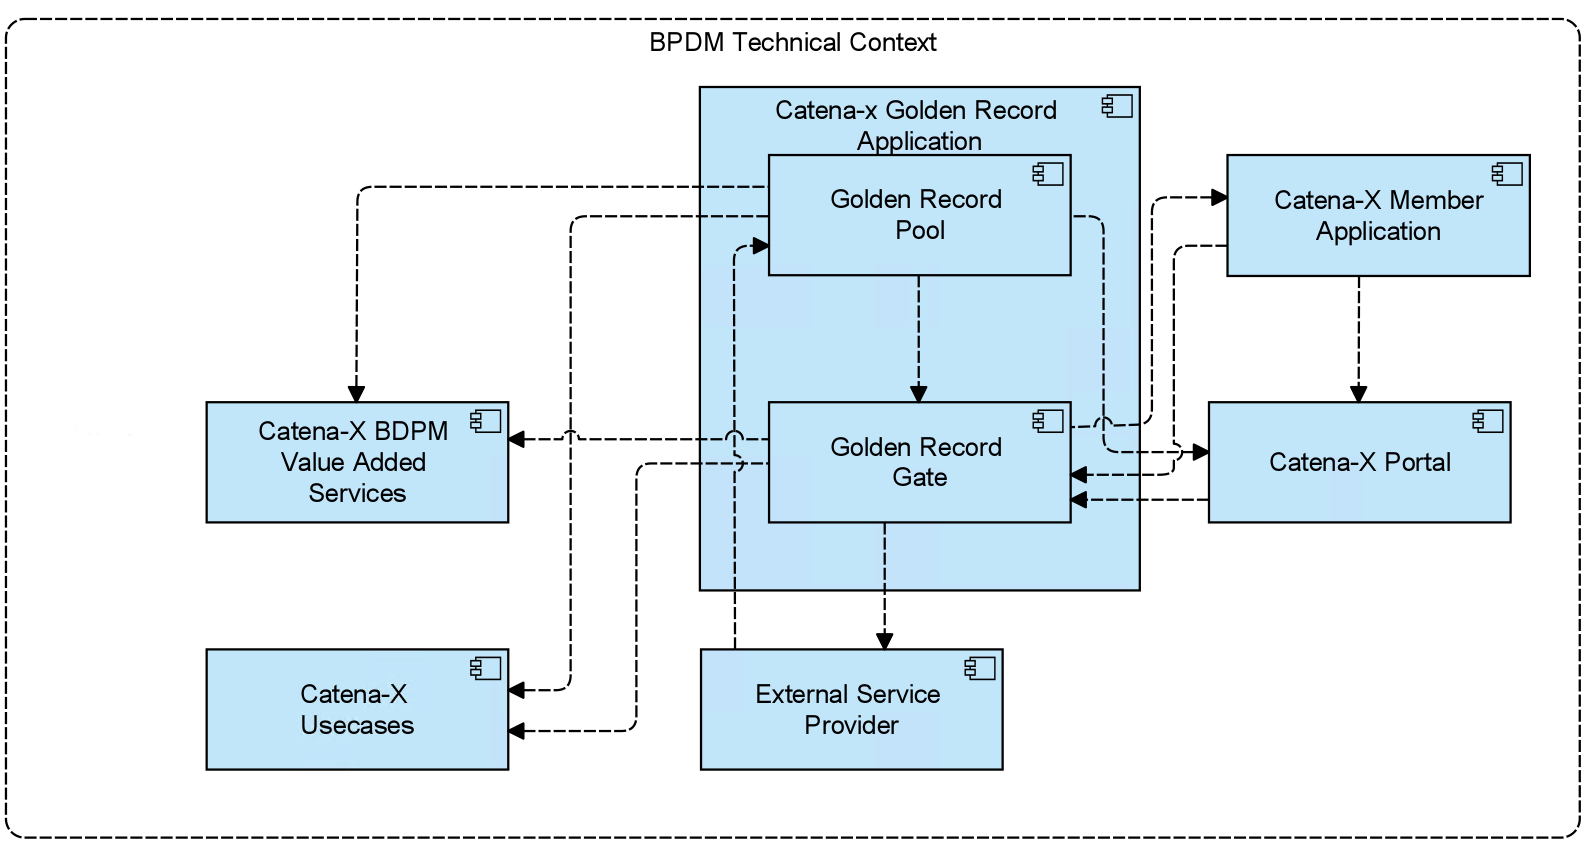
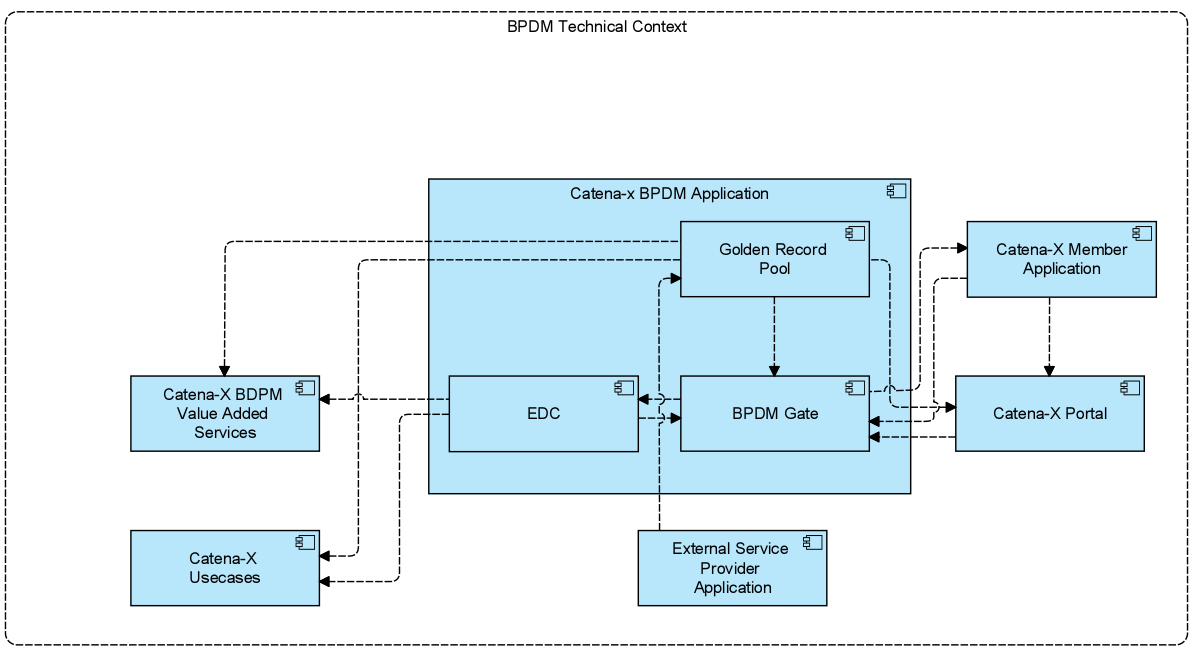
feat(arc42-rel3_1): add edc for gate to technical context

diff --git a/docs/arc42/arc42-bpdm-rel_3_1.md b/docs/arc42/arc42-bpdm-rel_3_1.md
@@ -1,0 +1,284 @@
+# BPDM Golden Record Application
+
+- [BPDM Golden Record Application](#bpdm-golden-record-application)
+- [Introduction and Goals](#introduction-and-goals)
+  - [Requirements Overview](#requirements-overview)
+  - [Quality Goals {#\_quality\_goals}](#quality-goals-_quality_goals)
+  - [Stakeholders](#stakeholders)
+- [Architecture Constraints](#architecture-constraints)
+- [System Scope and Context](#system-scope-and-context)
+  - [Business Context](#business-context)
+    - [Clients/Consumer of the API](#clientsconsumer-of-the-api)
+    - [API Consumption](#api-consumption)
+  - [Technical Context](#technical-context)
+  - [Deployment Context](#deployment-context)
+- [Solution Strategy](#solution-strategy)
+- [Building Block View](#building-block-view)
+  - [Whitebox Overall System](#whitebox-overall-system)
+    - [Class Diagram Pool](#class-diagram-pool)
+  - [Blackbox (API Authentication)](#blackbox-api-authentication)
+- [Runtime View](#runtime-view)
+- [Deployment View](#deployment-view)
+  - [BPDM Gate Deployment](#bpdm-gate-deployment)
+  - [Golden Record Pool Deployment](#golden-record-pool-deployment)
+- [Cross-cutting Concepts](#cross-cutting-concepts)
+  - [Business Partner Domain Model](#business-partner-domain-model)
+  - [What is the Business Partner Number (BPN)?](#what-is-the-business-partner-number-bpn)
+- [Architecture Decisions](#architecture-decisions)
+- [Quality Requirements](#quality-requirements)
+- [Risks and Technical Debts](#risks-and-technical-debts)
+- [Glossary](#glossary)
+
+# Introduction and Goals
+
+Every participant in the Catena-X (CX) network shall have a unique Business Partner Number (BPN) according to the concept defined by the Catena-X BPN concept. The task of the BPN Generator is to issue such a BPN for a presented Business Partner data object. In that, the BPN Generator serves as the central issuing authority for BPNs within Catena-X. Technically, it constitutes a service that is available as a singleton within the network.
+
+The CX datapool aims at collecting the business partner data objects from the service provider and giving the opportunity for other use cases and services to consume the data via an interface. The CX datapool is the central instance for business partner data within Catena-X.
+
+In general, we have implemented most of the adapter based on the Interface to a SaaS (Software as a Service) Provider, who currently has the responsibility to clean up the data.
+
+## Requirements Overview
+
+Essentially constituting a service-oriented architecture running distributedly on distinct CX Nodes, there can - in principle - be multiple consumers submitting business partner data objects for identification. To fulfill this purpose, the following requirements shall apply:
+
+| Req-Id  | Requirements                                                                                             |
+| ------- | -------------------------------------------------------------------------------------------------------- |
+| BPDM-R1 | The BPN Generator shall fit into the BPDM Architectural Framework.                                       |
+| BPDM-R2 | The BPN Generator shall support the modes of operation as described in BPN Generator: Modes of Operation |
+| BPDM-R3 | Regarding implementation technologies the BPN Generator shall follow the overall guidelines for Catena-X |
+| BPDM-R4 | The datapool should follow the business partner data model BPDM Data Model Business Partner              |
+| BPDM-R5 | The data should be available via API                                                                     |
+
+## Quality Goals {#\_quality\_goals}
+
+| Priority | Quality Goal            | Scenario                                                                                                                                                                                                                                                                                                                                                                                              |
+| -------- | ----------------------- | ----------------------------------------------------------------------------------------------------------------------------------------------------------------------------------------------------------------------------------------------------------------------------------------------------------------------------------------------------------------------------------------------------- |
+| 1        | Security                | All users and services which access the Golden Record Application must be authenticated and authorised. Only the Golden Record Application itself is allowed to perform changes on data. Consuming services/users are only allowed to read data. In addition they are only allowed to read the specific data that belongs with this, the Data Souvereignty principles of Catena-X has to be fulfilled |
+| 1        | Integrity               | Only the Golden Record Application is allowed to perform changes on the data. In addition, all changes must be traceable and must be able to be rolled back                                                                                                                                                                                                                                           |
+| 1        | Legally                 | No natural persons are allowed to get uploaded and stored. For all other uploaded data (Business Partners) it is mandatory that Users (Sharing Members) can only see their own uploaded data and that it is not possible to draw conclusions about other business partner relationships                                                                                                               |
+| 1        | Integrity & Correctness | It must be ensured that the data of the golden record which is created during the process is correct.                                                                                                                                                                                                                                                                                                 |
+| 2        | Reliability             | The Golden Record Application is a central foundation in the Catena-X Network. It provides all participants and services, business partner data and the unique Business Partner Number (BPN) as identifier. Therefore the BPDM Services must be always/highly available                                                                                                                               |
+| 2        | Functional Stability    | Since the Golden Record Application is a central foundation in the Catena-X Network the defined standards of the API and datamodel for the associated Release Version must be fulfilled                                                                                                                                                                                                               |
+| 1        | Sensitivity of data     | the uploaded business partner data is highly sensitive, that's why it must be ensured that no unauthorized user/system can access data which does not belong to it. More over it must be guaranteed that no one can see the business partners related to the specific Catena-X Member.  |
+
+![](images/iso_25010.png)
+
+## Stakeholders
+| Role/Name           | Expectations                                                                                                | Example |
+| ------------------- | ----------------------------------------------------------------------------------------------------------- | ------- |
+| Company (CX-Member) | Company wants to have cleaned and enriched business partner data objects with a BPN.                        |         |
+| CX Apps             | Other apps and their use cases want to use the business partner data objects and the BPN for their processes | The CX Portal will use the BPN for on-boarding new companies into the network. Traceability Apps will use BPN to describe business partners |
+
+
+# Architecture Constraints
+
+| Constraint ID | Description                                                                                         |
+| ------------ | --------------------------------------------------------------------------------------------------- |
+| C-1          | Developed under an open-source license and all used frameworks and libraries suites to this license |
+| C-2          | Must be compliant and fulfill the Catena-X Guidelines                                                                |
+| C-3          | Eclipse Dataspace Connector must be used for data transfer between different legal entites |
+
+# System Scope and Context 
+
+The Golden Record Gate and Golden Record Pool is the transhipment point for the incoming data from the service provider and for the outgoing data to the consumers. Consumers are mostly other apps that participate in the Catena-X network.
+
+## Business Context
+
+![](images/business-context.png)
+
+**Catena-X Member**
+* A company that's participating in the Catena-X Network and consuming digital services or data assets.
+
+**Catena-X Portal/Marketplace**
+* The Portal which provides an entry point for the Catena-X Members, to discover Apps that are offered in Catena-X.
+
+**Catena-X App Provider**
+* App Provider that provide data or service offers based on Catena-X Network data. The Apps are provided via the Catena-X Marketplace.
+
+**Catena-X Opeartion Environment for Golden Record**
+* Within Catena-X there will be only one central operation environment that operates the Golden Record Application. This operation environment provides the services and data for other operation environment or applications which needs to consume business partner data or golden record data.
+
+**Catena-X Golden Record Application**
+* The BPDM Golden Record Application which offers services to Catena-X Members, Catena-X Use Cases and Catena-X BPDM Value Added Services for consuming and processing business partner data as well as Golden Record Information and BPN Numbers.
+
+**Catena-X Use Cases**
+* Use Cases withing Catena-X. For example regarding Sustainability, Traceability, Quality Management and so on.
+
+**Catena-X BPDM Value Added Services**
+* There are several value added services that can be offered in context of business partner data. For example a Fraud Prevention Dashboard/API, Country Risk Scoring and so on.
+
+**External Service Provider**
+* To offer the BPDM and Golden Record Services, Catena-X uses services from external third party service providers.
+### Clients/Consumer of the API
+
+In order to inform you in a timely manner whenever breaking changes to our BPDM API are plannend, please fill in the table below. Especially the column "Contact Person" is relevant as these persons will be informed before the PI Planning in order to evaluate and plan the changes to their product. This site is just to support the collaboration.
+
+### API Consumption
+| #   | Use-Case             | BPDM API | Requirements to API and Data | Persistence Requirements         | Contact Person | Comment |
+| --- | -------------------- | -------- | ---------------------------- | -------------------------------- | -------------- | ------- |
+| 1   | Quality-Mgmt         |          |                              |                                  |                |         |
+| 2   | DCM                  | x        | BPN-L-S-A                    | Live Data                        |                |         |
+| 3   | Portal               | x        | BPN-L                        |                                  |                |         |
+| 4   | EDC                  |          |                              |                                  |                |         |
+| 5   | Traceability         |          |                              |                                  |                |         |
+| 6   | Sustainability - Co2 | x        | BPN-L-S-A                    | via Message Broker and Live Data |                |         |
+| 7   | Circular Economy     | x        |                              |                                  |                |         |
+| 8   | Marketplace          | ?        |                              |                                  |                |         |
+| 9   | OSIM                 | x        |                              |                                  |                |         |
+| 10  | ESS                  | x        | BPN-L-S-A -> Search by addresses independent to L-S-A |                                  |                |         |
+
+(X = Will be used / is used by)
+## Technical Context
+
+![](images/technical-context.png)
+
+**Catena-X Golden Record Application**
+* The BPDM Golden Record Application which offers services to Catena-X Members, Catena-X Use Cases and Catena-X BPDM Value Added Services for consuming and processing business partner data as well as Golden Record Information and BPN Numbers.
+
+**Golden Record Gate**
+* The Golden Record Gate provides the interfaces for Catena-X Members to manage their business partner data within Catena-X. It forwards the uploaded business partners to a third party service provider to create a Golden Record Proposal.
+* Currently the Gate only provides an API to interact with the data pools of the third party service providers. In the future, an own persistence layer will be introduced within the Gate, handling state and business logic.
+
+**Golden Record Pool**
+* The Golden Record Pool provides the interface and persistance for accessing Golden Record Data and the unique Business Partner Number.
+
+**Catena-X Use Cases, Value Added Services, Member Applications**
+* All of these Applications uses the Interface provided by Golden Record Pool to consume Golden Record Information.
+
+
+## Deployment Context
+![](images/deployment-context.png)
+
+**Catena-X Operation Environment for Golden Record**
+
+* The Golden Record Application will be a single central component. Therefore it will only be deployed in the environment of this operation company. This company can of course also operate or offer other Catena-X Services.
+
+**External Service Provider**
+
+* To create a golden record proposal, Catena-X uses external third party services. These services are operated and own by the external service provider.
+
+**Catena-X Operations Enviornment xyz**
+
+* In contrast to the central golden record component, other BPDM Value Added services are decentral and can be operated in any operation environment.
+
+# Solution Strategy
+
+Use a microservice approach to separate the different components of the system and design a generic part as well as a specific data provider and data consumer part.
+
+* Kotlin
+* Spring Boot
+* Maven
+* PostgreSQL Database
+* REST
+* OpenSearch
+* Keycloak
+* Helm
+* Kubernetes
+
+
+# Building Block View
+
+![](images/BPDM_BUILDING_BLOCK_VIEW.png)
+
+## Whitebox Overall System
+
+| Name          | Responsibility                                                                                                                                 |
+| ------------- | ---------------------------------------------------------------------------------------------------------------------------------------------- |
+| API           | In this block the communication with other services (e.g. CX Portal) takes place.The API offers different end points, functions and data offer |
+| SaaS Adapter  | In this block the received data objects from an external data source will be converted to the CX data model.                                   |
+| BPN Generator | In this block for each data object a Business Partner Number will be created and assigned to the data object.                                  |
+| Elastic Search Component    | In this block the Elastic Search Component needs to interact with the Elastic Search Service to provide the search function via API. |
+
+### Class Diagram Pool
+![](images/class-diagram-pool.png)
+
+## Blackbox (API Authentication)
+
+For authentication the API uses a Bearer authentication (also called token authentication) is an HTTP authentication scheme that involves security tokens called bearer tokens.
+
+The client must send this token in the Authorization header when making requests to protected resources:
+
+Authorization: Bearer <token>
+
+Keycloak
+
+OAuth2
+
+# Runtime View
+
+![](images/RUNTIME_VIEW.png)
+
+# Deployment View
+
+How to run the service: ![](../../README.adoc)
+
+## BPDM Gate Deployment
+![](images/BDPM_GATE_DEPLOYMENT.png)
+
+## Golden Record Pool Deployment
+![](images/GR_POOL_DEPLOYMENT_1.png)
+![](images/GR_POOL_DEPLOYMENT_2.png)
+
+
+# Cross-cutting Concepts
+
+## Business Partner Domain Model
+![](images/business-partner-data-model.png)
+
+## What is the Business Partner Number (BPN)?
+A BPN is a unique identifier for a Business Partner, standardized for the Catena-X environment with overall 16 digits.
+
+BPN ID syntax / structure:
+
+| Prefix                                          | Classification                        | Identifier   | Check Digit                                     | Representation of a BPN |
+| ----------------------------------------------- | ------------------------------------- | ------------ | ----------------------------------------------- | ----------------------- |
+| 3 digits                                        | 1 digit                               | 10 digits    | 2 digits                                        | BPNL1234567890ZZ        |
+| Issuing Agency Code based on IS/IEC 15458 “BPN” | L = Legal entity S = Site A = Address | Alphanumeric | Checking algorithm based on ISO7064 MOD 1271-36 | BPN is used as a placeholder for the Issuing Agency according to ISO/IEC 15459. L identifies the legal entity of the Business Partner. ZZ is the individual check digit, which is formed according to ISO 7064. Note, for the human-readable representation of the BPN, the following input or reading aid is recommended: BPNL 1234 5678 90ZZ The use of a barcode or QR code can be assigned for machine-readable representation. |  
+
+
+# Architecture Decisions
+[Architecture Decision Logs](https://confluence.catena-x.net/display/CORE/BPDM+%7C+Decision+Logs)
+(Link will be replaced with ADRs based on Markdown)
+
+# Quality Requirements
+
+* see: [Quality Goals](#quality-goals-_quality_goals)
+
+# Risks and Technical Debts
+
+**Open EDC Questions**
+* What capabilites will be provided in the future?
+* How to deal with APIs provided behind an EDC? Swagger documentation cannot be seen by the requesting service?
+* How can we authorize and authenticate a User/System with individual permissions after it passes the EDC?
+* ...
+
+**Lack on Developer Resources**
+* To less developer resources in contrast to the expectations that the BPDM Product and its Golden Record will be a foundation component within Catena-X.
+
+**Semantic Model and SSI Integration of the Golden Record**
+* Not done yet.
+
+**Dependency on third party service provider**
+* Currently we are not flexible enough to easiliy change the third party service provider for golden record creation. Therefore the next step will be to introduce an own data persistence layer, getting more independent.
+
+**Data Storage concept**
+* How to seperate Data and ensure data sovereignty?
+
+**Accessability for SMEs**
+* Uploading via CSV File. Does it requires an EDC?
+
+# Glossary
+
+The Glossary is currently under development and will be added below after intenal approval ([DRAFT](https://confluence.catena-x.net/display/CORE/BPDM+Glossary+-+Internal+-+DRAFT))
+
+
+| Term                  | Definition                                                                                                                                                                                                                                                                                                                                                                                                                                                                                                                                                                                                                              |
+| --------------------- | --------------------------------------------------------------------------------------------------------------------------------------------------------------------------------------------------------------------------------------------------------------------------------------------------------------------------------------------------------------------------------------------------------------------------------------------------------------------------------------------------------------------------------------------------------------------------------------------------------------------------------------- |
+| Golden Record         | Golden Record defines a BPDM data record which passed successfully a set of predefined quality rules. These rules curated the data record into a harmonized, standardized and semantic unified data structure which is defined by Catena-X. The Golden Record status is a prereq for each BPDM data record to receive a valid BPN                                                                                                                                                                                                                                                                                                       |
+| Business Partner (BP) | In general, a BP is every entity (e.g. customer, supplier, employee, service provider) which does buiness with a respective company. In light of Catena-X, natural persons are excluded and focus is set on companies acting as a unique partner and being a member or supporter of the automotive supply chain.                                                                                                                                                                                                                                                                                                                        |
+| Legal Entity          | A legal entity is a juridical person or group which has legal rights and duties related to contracts, agreements, obligations etc. The term applies to any kind of organization which was founded under the particular set of law governing the country. |
+| Site                  | A site is a delimited geographical area where a legal entity does business (geographical address with geo coordinates). Providing a primary physical address for a site is mandatory. It is possible to specify further physical addresses for this location. P.O. box details are only possible in addition to the physical address. A site has a 1:n relation to addresses, means at least 1 address is necessary and multiple addresses are possible.                                                                                                                                                                                |
+| Additional address    | An additional address is a collection of information used to give the location of a building, apartment, or other structure or a plot of land, generally using political boundaries and street names as references, along with other identifiers such as organization name or plant. Addresses may contain also special codes, such as a postal code or geocodes, to make identification easier and aid in the routing of deliveries.                                                                                                                                                                                                   |
+| BPDM Gate             | The BPDM Gate is a Software Component / Solution that handles input, communication and state for sharing data betweeen CX Members, their business partner data and Golden Record information                                                                                                                                                                                                                                                                                                                                                                                                                                            |
+| Golden Reocrd Pool    | The Golden Record Pool is a Software Component / Solution that offers an interface to the Golden Record data persistence and also generating and serving the BPNs                                                                                                                                                                                                                                                                                                                                                                                                                                                                       |
+
